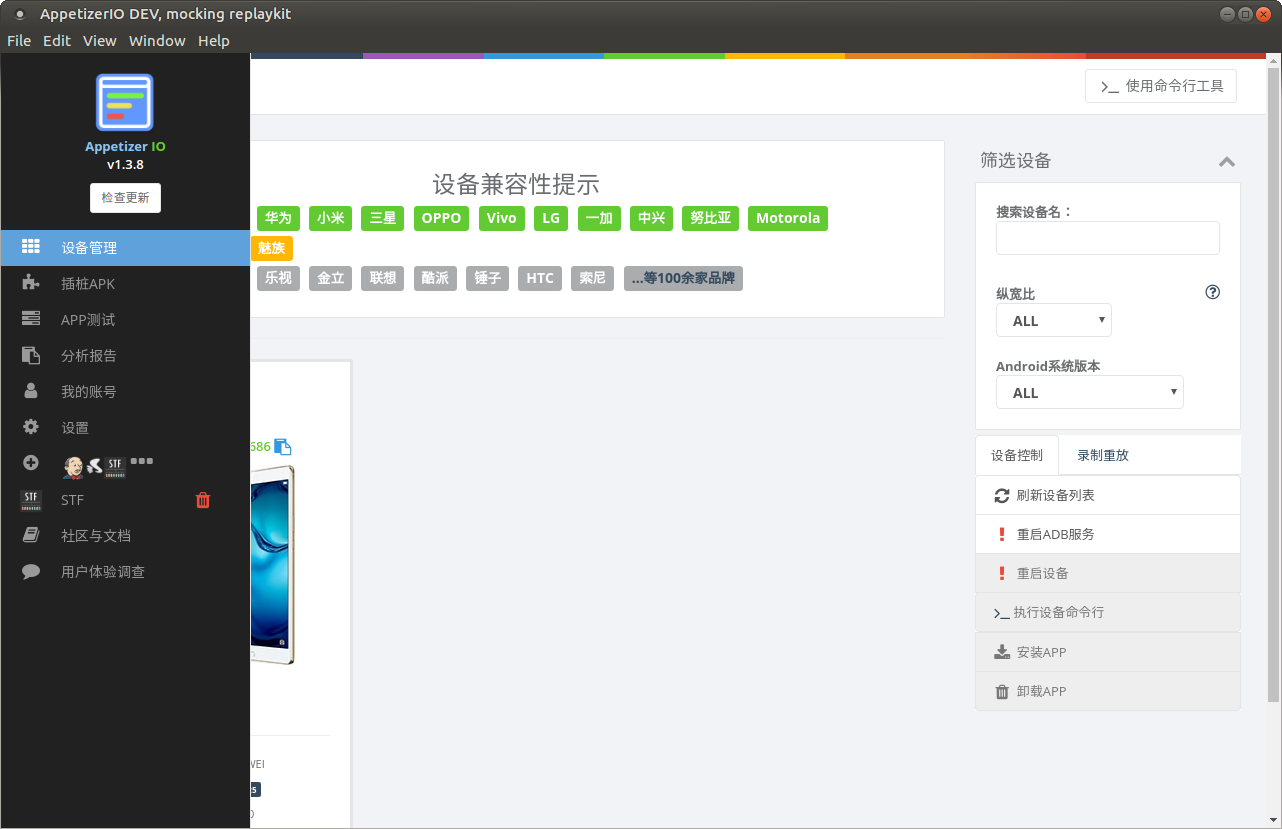
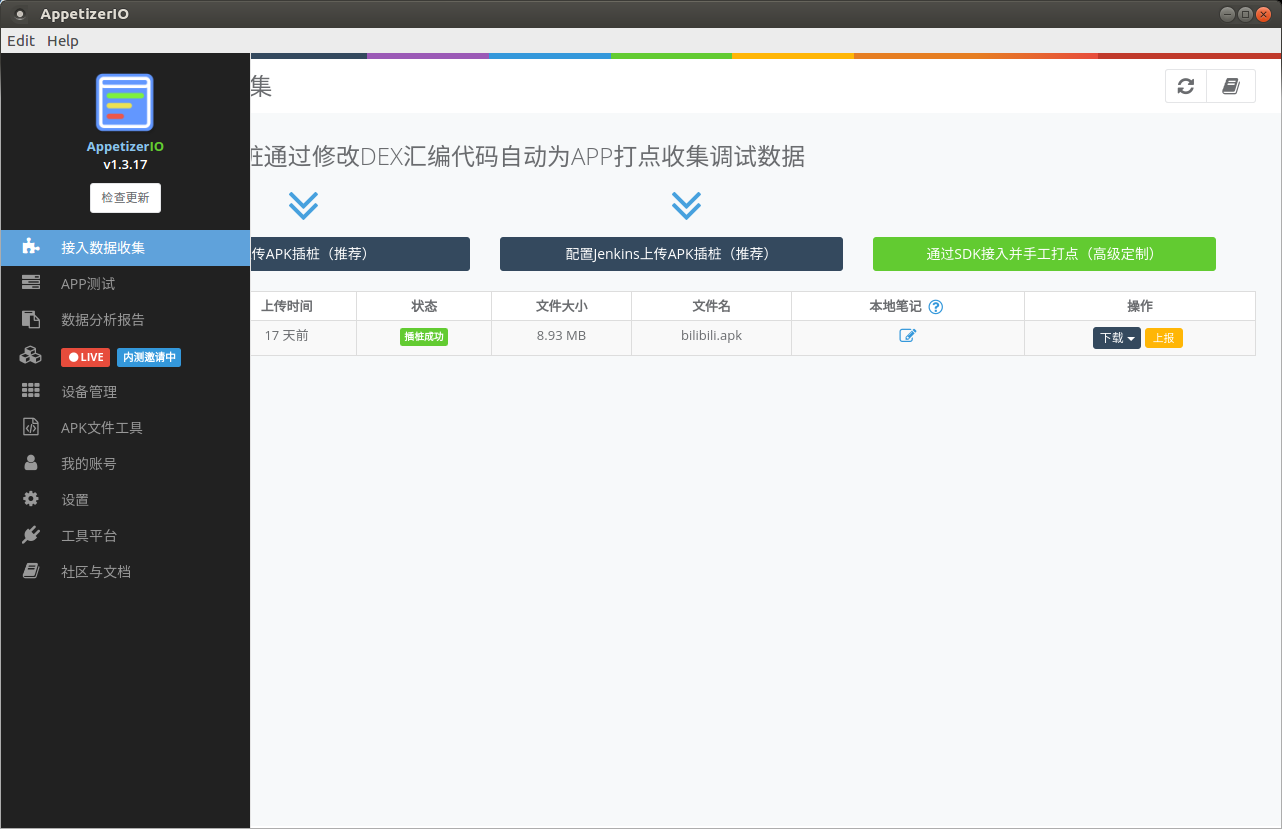
update get-started and index

diff --git a/source/get-started.md b/source/get-started.md
@@ -1,17 +1,45 @@
 title: 快速入门
 ---
-# 快速入门
+# 快速入门（5分钟）
 
 > 什么样的工程师没药救？ 只会用百度 翻墙也不舍得翻 页内ctrl+f 也不会 就会干用眼睛看 搜索seo 关键词 也不会 好的站内搜索工具也都不用 就是干用百度查 — testerhome [小马 @harsayer](https://testerhome.com/harsayer)
 
 ## 安装
 * 安装JDK, Android Studio, Android SDK 可以参考 [教程](https://blog.csdn.net/hebbely/article/details/78970918)
-* 到 Appetizer 主页 https://appetizer.io/cn/  注册 AppetizerIO 账号，并下载最新版本的客户端（解压）；Appetizer支持Windows, Linux, MacOS
-* 运行Appetizer/Appetizer.exe/Appetizer.app，如果有防火墙相关问题，请配置防火墙不阻挡Appetizer
-  * 请完全解压，不要直接在压缩包里双击执行；请注意Appetizer的组件（例如starfish.exe）不要被流氓安全软件删除或者隔离到小黑屋
-  * 如果在Linux上提示错误 `error while loading shared libraries: libconf-2.so.4`，需要 `sudo apt-get install libgconf-2-4`
-* 登录后，界面如下：
+* 到 Appetizer 主页 https://appetizer.io/cn/  注册 AppetizerIO 账号，并下载最新版本的客户端（Windows, Linux, MacOS 解压）运行Appetizer/Appetizer.exe/Appetizer.app，登录后，界面如下：
 ![](first-time.png)
+
+
+## 接入数据收集
+* 插桩能为打包好的APK自动增加数据收集功能；在界面的左边主导航选择 `接入数据收集` ，点击上传APK插桩
+![](get-started-instrumentation.png)
+* 选择APK文件，等待插桩完成（1分钟-几分钟），在界面右上角点击刷新按钮，列表中最上方显示的为最近的插桩任务。在下载下拉菜单中选择 `直接下载` 即可下载插桩后的APK（插桩包）到电脑；也可以选择 `手机下载` 用手机浏览器扫码下载到手机
+![](get-started-download-instrumented-apk.png)
+
+
+## 手工测试 获取数据并上传分析
+* 在待测手机上卸载原来的APP，安装插桩后的APK
+* 启动后即开始测试并自动收集数据，手机屏幕右边会出现Appetizer浮动功能菜单
+![](./usage/floating-menu.png)
+* 对APP进行一些操作，后点击浮动功能菜单中的 `上传分析`，会有Toast提示上传成功
+
+## 查看报告
+* 回到Appetizer桌面版，在主导航选择 `数据分析报告`，最新的报告在列表最上方；点击 `打开` 按钮查看；
+![](get-started-select-report.png)
+* 报告中会记录测试过程中遇到的错误（异常和ANR等闪退问题），性能问题，以及所有的网络请求
+* 如果本报告数据较少，可以点击列表界面右上角的 `样例` 查看一次比较完整的手工测试后产生的报告
+![](get-started-sample-report.png)
+
+|  报告数据时间轴图  | 一次网络请求详细诊断信息 | 
+|:-----------------:| :---------------: |
+|  ![](get-started-sample-report2.png) |![](get-started-sample-report3.png)|
+
+
+## 安装问题
+* Appetizer桌面版无法启动或者启动白屏
+  * 请完全解压，不要直接在压缩包里双击执行；请注意Appetizer的组件（例如starfish.exe）不要被流氓安全软件删除或者隔离到小黑屋
+* 如果在Linux上提示错误 `error while loading shared libraries: libconf-2.so.4`
+  * 需要 `sudo apt-get install libgconf-2-4`
 * 如果登录后弹出需要ADB，请检查Android SDK 的platform-tools是否正确安装并且是否添加到了PATH，默认adb位置在：
 ```
 # MacOS
@@ -21,35 +49,17 @@ C:\Users\Administrator\AppData\Local\Android\sdk\platform-tools
 # Linux
 ~/Android/Sdk/platform-tools
 ```
-
-## 插桩
-* 在图形化界面的左边主导航选择 `插桩APK` ，点击上传APK
-![](get-started-instrumentation.png)
-* 选择APK文件，等待插桩完成，选择 `刷新列表`，列表最上方的插桩任务可以下载插桩后的APK（插桩包）或者上报插桩问题（吐槽）
-![](get-started-download-instrumented-apk.png)
-* 注意：APK可以混淆，不可加固；如果不符合，会弹框告知，并且插桩任务的状态会相应显示，例如
-![](get-started-instrumentation-error.png)
-* 如果是服务器相关问题或者长时间显示为等待上传，请上报
-
-## 运行测试并提交分析
-* 通过USB连接测试Android设备，在设备上启动开发者选项->USB调试，在主导航选择 `APP测试`，显示检测到已连接的设备；选择设备，选择已插桩的APK，应该如下图所示
-![](get-started-testing.png)
-* 点击 `安装APP` 后，点击 `启动APP并开始测试`
-![](get-started-start-testing.png)
-* 在设备上对APP进行操作，然后点击 `上传分析` 等待分析完成
-![](get-started-finish-testing.png)
-* 完成测试用于放弃这次测试的数据，之后可以重新开始
-
-## 查看报告
-* 完成测试以及上传分析步骤后，在主导航选择 `分析报告`，点击眼睛图标打开该报告；
-![](get-started-select-report.png)
-* 可以点击 `打开样例报告` 查看一次比较完整的手工测试后产生的报告
-* 报告中会记录测试过程中遇到的问题，包括异常和ANR（闪退问题），性能问题，以及网络的相关问题
-![](get-started-sample-report.png)
-
+* 插桩的要求
+  * 被插桩的APK可以混淆，不可加固，插桩任务的状态会显示插桩中的问题，如果是服务器相关问题或者长时间显示为等待上传，请点击黄色上报按钮
+* 安装插桩包的时候出错
+  * 请在手机上卸载原来版本
+* 插桩包启动后闪退
+  * 请[重新签名插桩后的APK重试](usage/instrumentation.html#常见插桩问题排查)
+  
 ## 继续阅读
 * [选择合理的测试方法 提高测试覆盖面 让Appetizer找到更多问题](usage/testing.html)
 * [理解Appetizer报告找到的问题 导出报告进一步分析](usage/analysis.html)
 * [接入更多的第三方服务 从报告开始构建完整质量保障体系](usage/3rdparty.html)
 * [去社区逛逛 看看大家的踩坑记和经验](https://testerhome.com/topics/node127)
 * [加入QQ群 467889502 和Appetizer团队以及大家互动](http://shang.qq.com/wpa/qunwpa?idkey=4f1ef873aac8ca2a545fae99067ef5f4e505ac4a6ee3d1fad937a5dfe43ae274)
+

diff --git a/source/index.md b/source/index.md
@@ -2,20 +2,20 @@ title: Appetizer
 ---
 
 # Appetizer 移动开发智能化平台
-Appetizer 是一个完整的移动开发、测试以及分析平台，自主研发的插桩技术可以为APK自动增加各项监控功能，收集错误、性能、网络信息，用于调试、分析。 Appetizer是完整的开发生态，开发接入优质第三方工具，从开发到发版形成统一的闭环。通过[5分钟快速入门教程](get-started.html)开始改革移动开发工具吧!
+Appetizer 是一个全面的移动测试以及数据分析平台，数据采集功能在APP运行中收集错误、性能、网络信息，用于调试、诊断错误、评估性能；集成的各种测试工具能够[高效编写UI自动化脚本]()、[执行UI压力测试]()、[自动化Monkey/遍历界面与功能]()、[一键测量APP冷热首次启动过程]()等。 Appetizer是完整的开发生态，开发接入优质第三方工具，从开发到发版形成统一的闭环。通过[5分钟快速入门教程](get-started.html)开始改革移动开发工具吧!
 
-## 插桩得到专业的报告
-| 细节指到问题代码那一行 | 时间轴图明明白白 | 流量优化异常简单 | 
+## 数据收集报告专业
+| 网络请求详细细节 | 时间轴图运行过程明明白白 | 流量优化异常简单 | 
 |:-----------------:| :---------------: | :--: |
 |  ![](usage/reports-details.png) |![](usage/reports-timeline.png)| ![](advanced/traffic-4.png)|
 
-## 多种测试工具支持
-|  从APP的浮动框方便进行手工测试  | 多种专业配置 | Maxim开始UI压力测试 | 
+## 高级测试工具提高效率、自动化
+|  从APP的浮动框方便进行手工测试  | 精确测量APP启动过程 | 配置UI压力测试 | 
 |:-----------------:| :---------------: | :--: |
-|  ![](usage/floating-menu.png) |![](usage/maxim-overview.png)| ![](usage/maxim-config.png)|
+|  ![](usage/floating-menu.png) |![](usage/loadtime.png)| ![](usage/maxim-config.png)|
 
-## 集成第三方工具
-|  多种服务安装方便  | STF多设备管理 | Hitchhiker接口压力测试 | 
+## 常用工具一键部署启停
+|  常用工具一键部署启停  | STF多设备管理 | Hitchhiker接口压力测试 | 
 |:-----------------:| :---------------: | :--: |
 |  ![](usage/integration-all.png) |![](usage/integration-openstf.png)| ![](usage/integration-hitchhiker.png)|
 

diff --git a/source/usage/testing.md b/source/usage/testing.md
@@ -6,13 +6,20 @@ title: 测试
 > 测试方法千千万，不要迷信任何一种；当工作只需要一次点击一个工具时，请准备下岗
 
 ## 手工测试 PC端控制
-[参考快速入门教程](../get-started.html#运行测试并提交分析)
+* 通过USB连接测试Android设备，在设备上启动开发者选项->USB调试，在主导航选择 `APP测试`，显示检测到已连接的设备；选择设备，选择已插桩的APK作为待测APP，如下图所示
+![](../get-started-testing.png)
+* 点击 `安装APP` 后，点击 `启动APP并开始测试`
+![](../get-started-start-testing.png)
+* 在设备上对APP进行操作，然后点击 `上传分析` 等待分析完成
+![](../get-started-finish-testing.png)
+* 完成测试用于放弃这次测试的数据；每次开始测试会清空之前的数据
+
 * 优点：直接、简单、完美理解业务流程、完美模拟真实用户行为，适用于新业务（自动化未跟上），表单类业务（输入要求或者业务逻辑复杂），有特殊交互（例如特殊手势），有防止自动化的情况（例如校验码）
 * 缺点：效率低下，不能批量多设备运行
 * 建议：可配合录制重放减轻部分工作
 
-## 手工测试 浮动框
-[在插桩时开启Appetizer浮动框](instrumentation.html#浮动框功能)，可以完全在设备端进行测试到上传分析
+## 手工测试 手机端控制
+* 启动插桩后的APP自动有Appetizer浮动功能菜单，开始测试 放弃测试 上传分析
 ![](floating-menu.png)
 
 ## UI自动化脚本测试

diff --git a/source/changelog.md b/source/changelog.md
@@ -3,6 +3,21 @@ title: 历史版本
 
 # 历史版本
 
+## 1.3.18
+```
+1. inspector支持双击、单击、长按、断言等新代码插入 2. live界面可以过滤错误的URL，界面调整 3. inspector使用ATX dump方式，更快更稳定 4. 更新设置页面 5. 工具平台开始加入开源github项目release自动下载
+```
+
+## 1.3.17
+```
+1. 脚本助手新功能：更多交互方式，交互更新； 2. live更新：界面调整； 3. 脚本助手更稳定，支持屏幕旋转
+```
+
+## 1.3.16
+```
+1. 新增基于atx-agent的自动化脚本编写助手 2. UI调整，上传timeout bug修复
+```
+
 ## 1.3.15
 ```
 1. 线上错误监控开始内测 2. 报告时间轴图展示内存数据 3. 数据收集模块插桩以外支持SDK方式接入 4. APP如果接入了Jacoco，Appetizer报告时自动获取jacoco数据，可在报告中下载ec文件 5. 浮动框自动开启，新增通知栏实时收集的数据的统计信息 6. keystore支持jks文件
